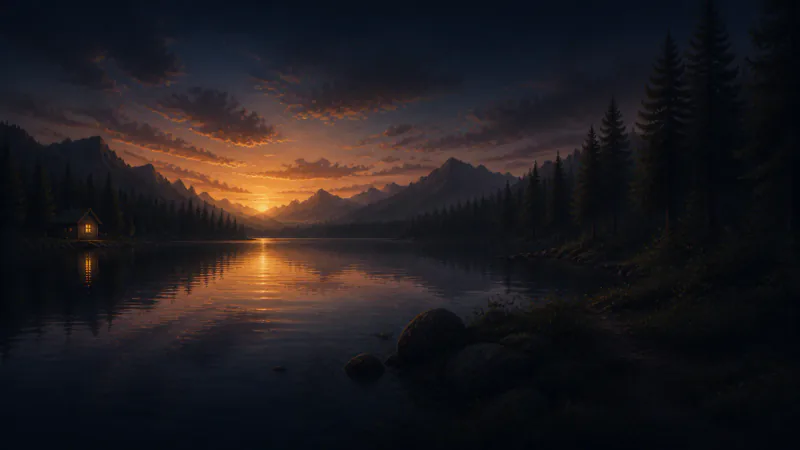
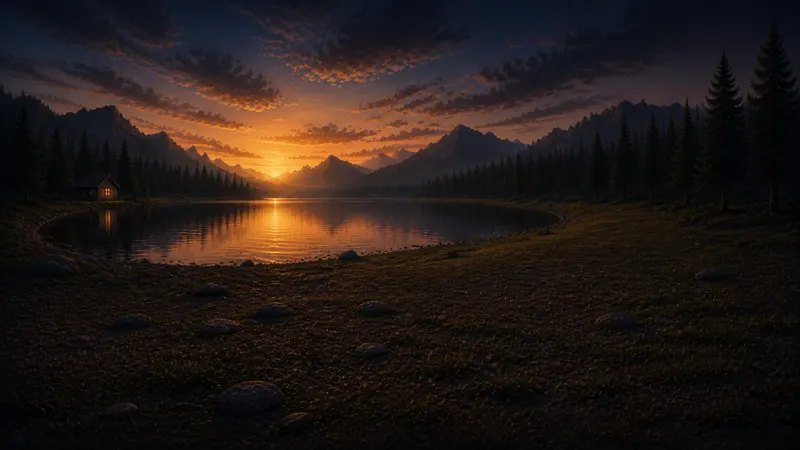
feat: samla följeslagaren och stugan på samma strand

diff --git a/src/routes/framsteg/+page.svelte b/src/routes/framsteg/+page.svelte
@@ -1452,6 +1452,10 @@
 		mask-image: radial-gradient(ellipse at 50% 52%, #000 72%, rgb(0 0 0 / 0.88) 89%, transparent 100%);
 	}
 
+	.companion-media[data-companion='fox'] :global(.progress-companion-pose .companion-pose-image) {
+		filter: var(--companion-grade) brightness(0.94) drop-shadow(0 7px 8px rgb(37 31 20 / 0.1));
+	}
+
 	/* Vargbilden är redan frilagd. Låt dess egen alpha-kant möta skuggan och
 	 * förgrunden, i stället för att lägga på den generella panoramamasken. */
 	.companion-media[data-companion='wolf'] :global(.progress-companion-pose .companion-pose-image) {
